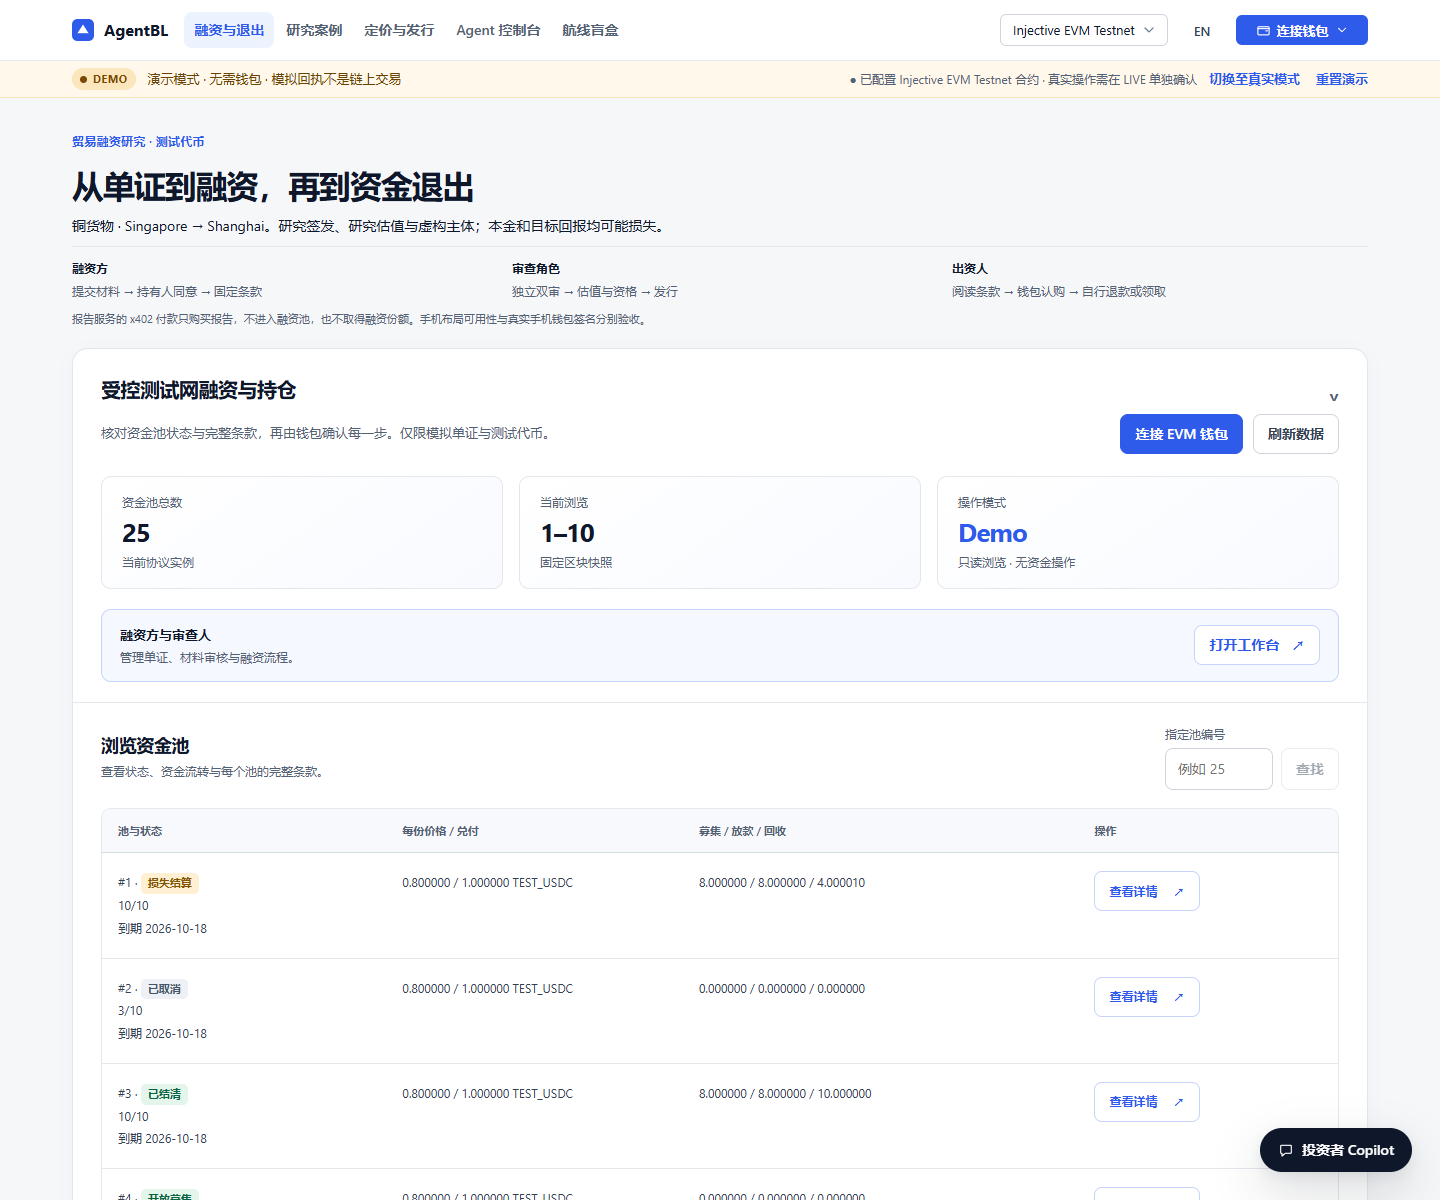
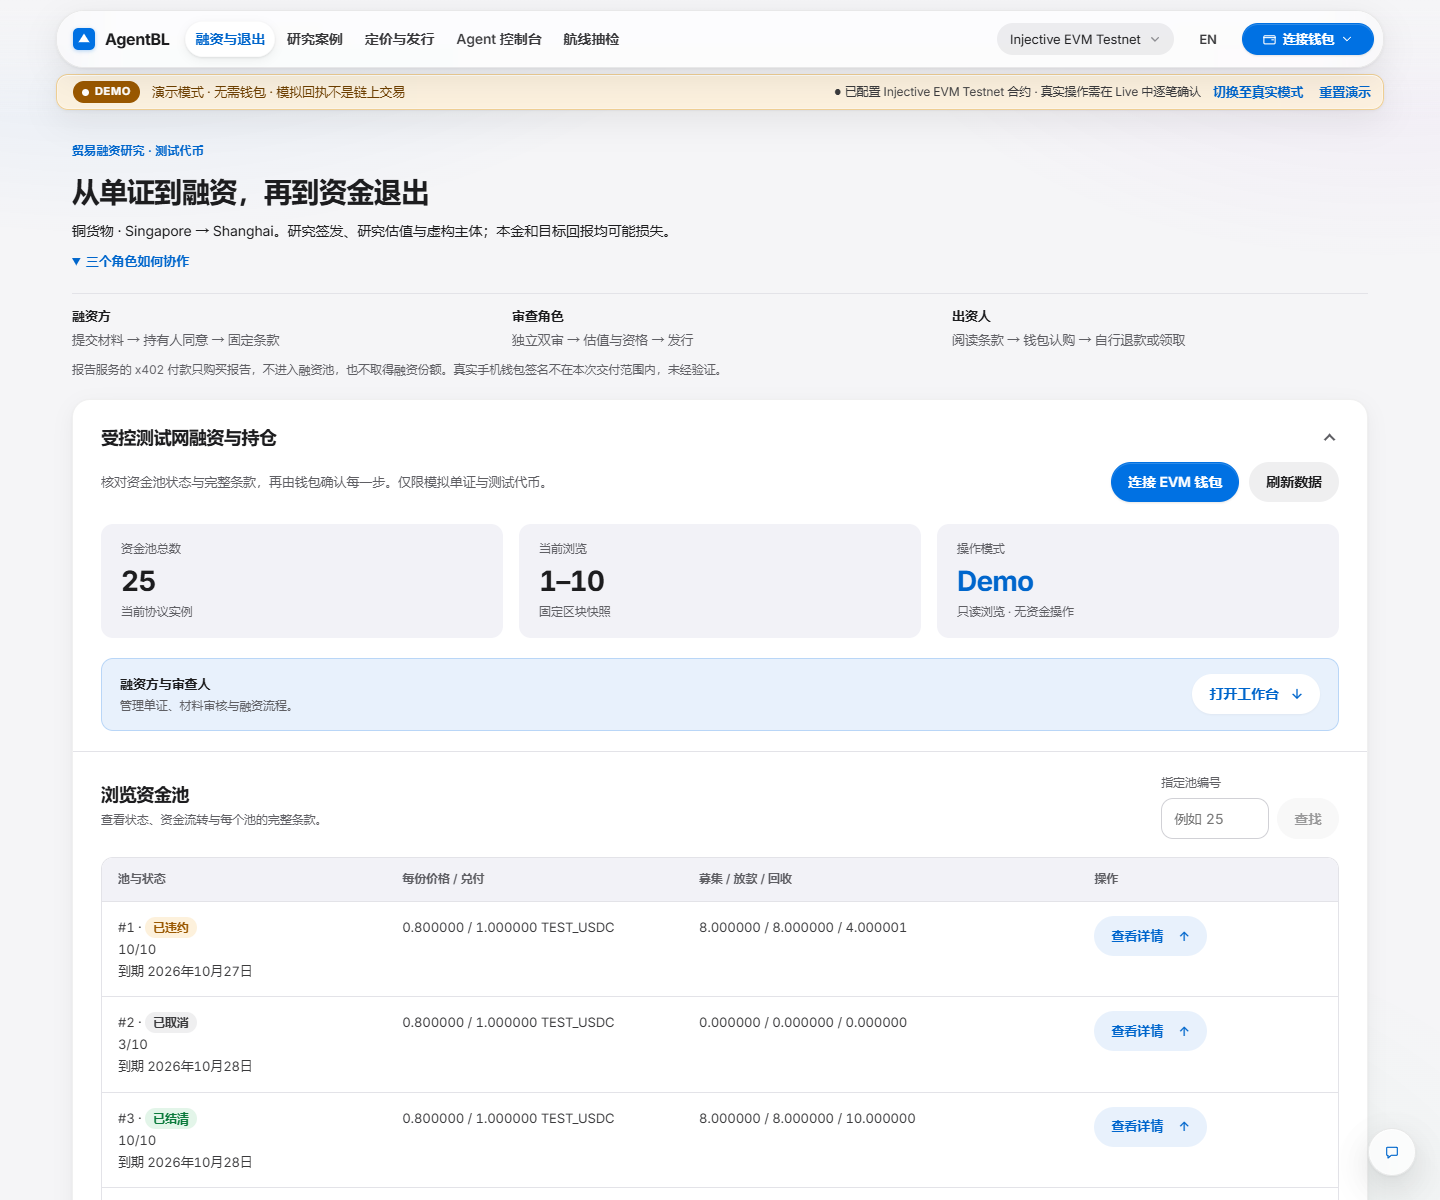
docs: retake the README screenshots on the Liquid Glass interface
Both financing screenshots now show the current design, run locally
against the control version 3 instance in Demo viewing mode with no
wallet connected; the captions say so.

diff --git a/README.md b/README.md
@@ -52,7 +52,7 @@ A bilingual interface for borrowers, reviewers, and investors, with financing po
 
 [![AgentBL English financing workspace](docs/assets/financing-en.png)](docs/assets/financing-en.png)
 
-<sub>Actual interface of the local v2 instance. The screenshot shows public testnet pool data in Demo viewing mode, with no wallet connected.</sub>
+<sub>Actual interface (Liquid Glass design), run locally against the control version 3 instance. The screenshot shows public testnet pool data in Demo viewing mode, with no wallet connected.</sub>
 
 ## One workflow, three cash outcomes
 

diff --git a/README.zh-CN.md b/README.zh-CN.md
@@ -52,7 +52,7 @@
 
 [![AgentBL 中文融资工作台](docs/assets/financing-zh.png)](docs/assets/financing-zh.png)
 
-<sub>v2 本机实例的真实界面。截图在 Demo 查看模式下展示公开测试网资金池数据，未连接钱包。</sub>
+<sub>本机运行、连接 control version 3 实例的真实界面（液态玻璃设计）。截图在 Demo 查看模式下展示公开测试网资金池数据，未连接钱包。</sub>
 
 ## 一条流程，三种资金结果
 
